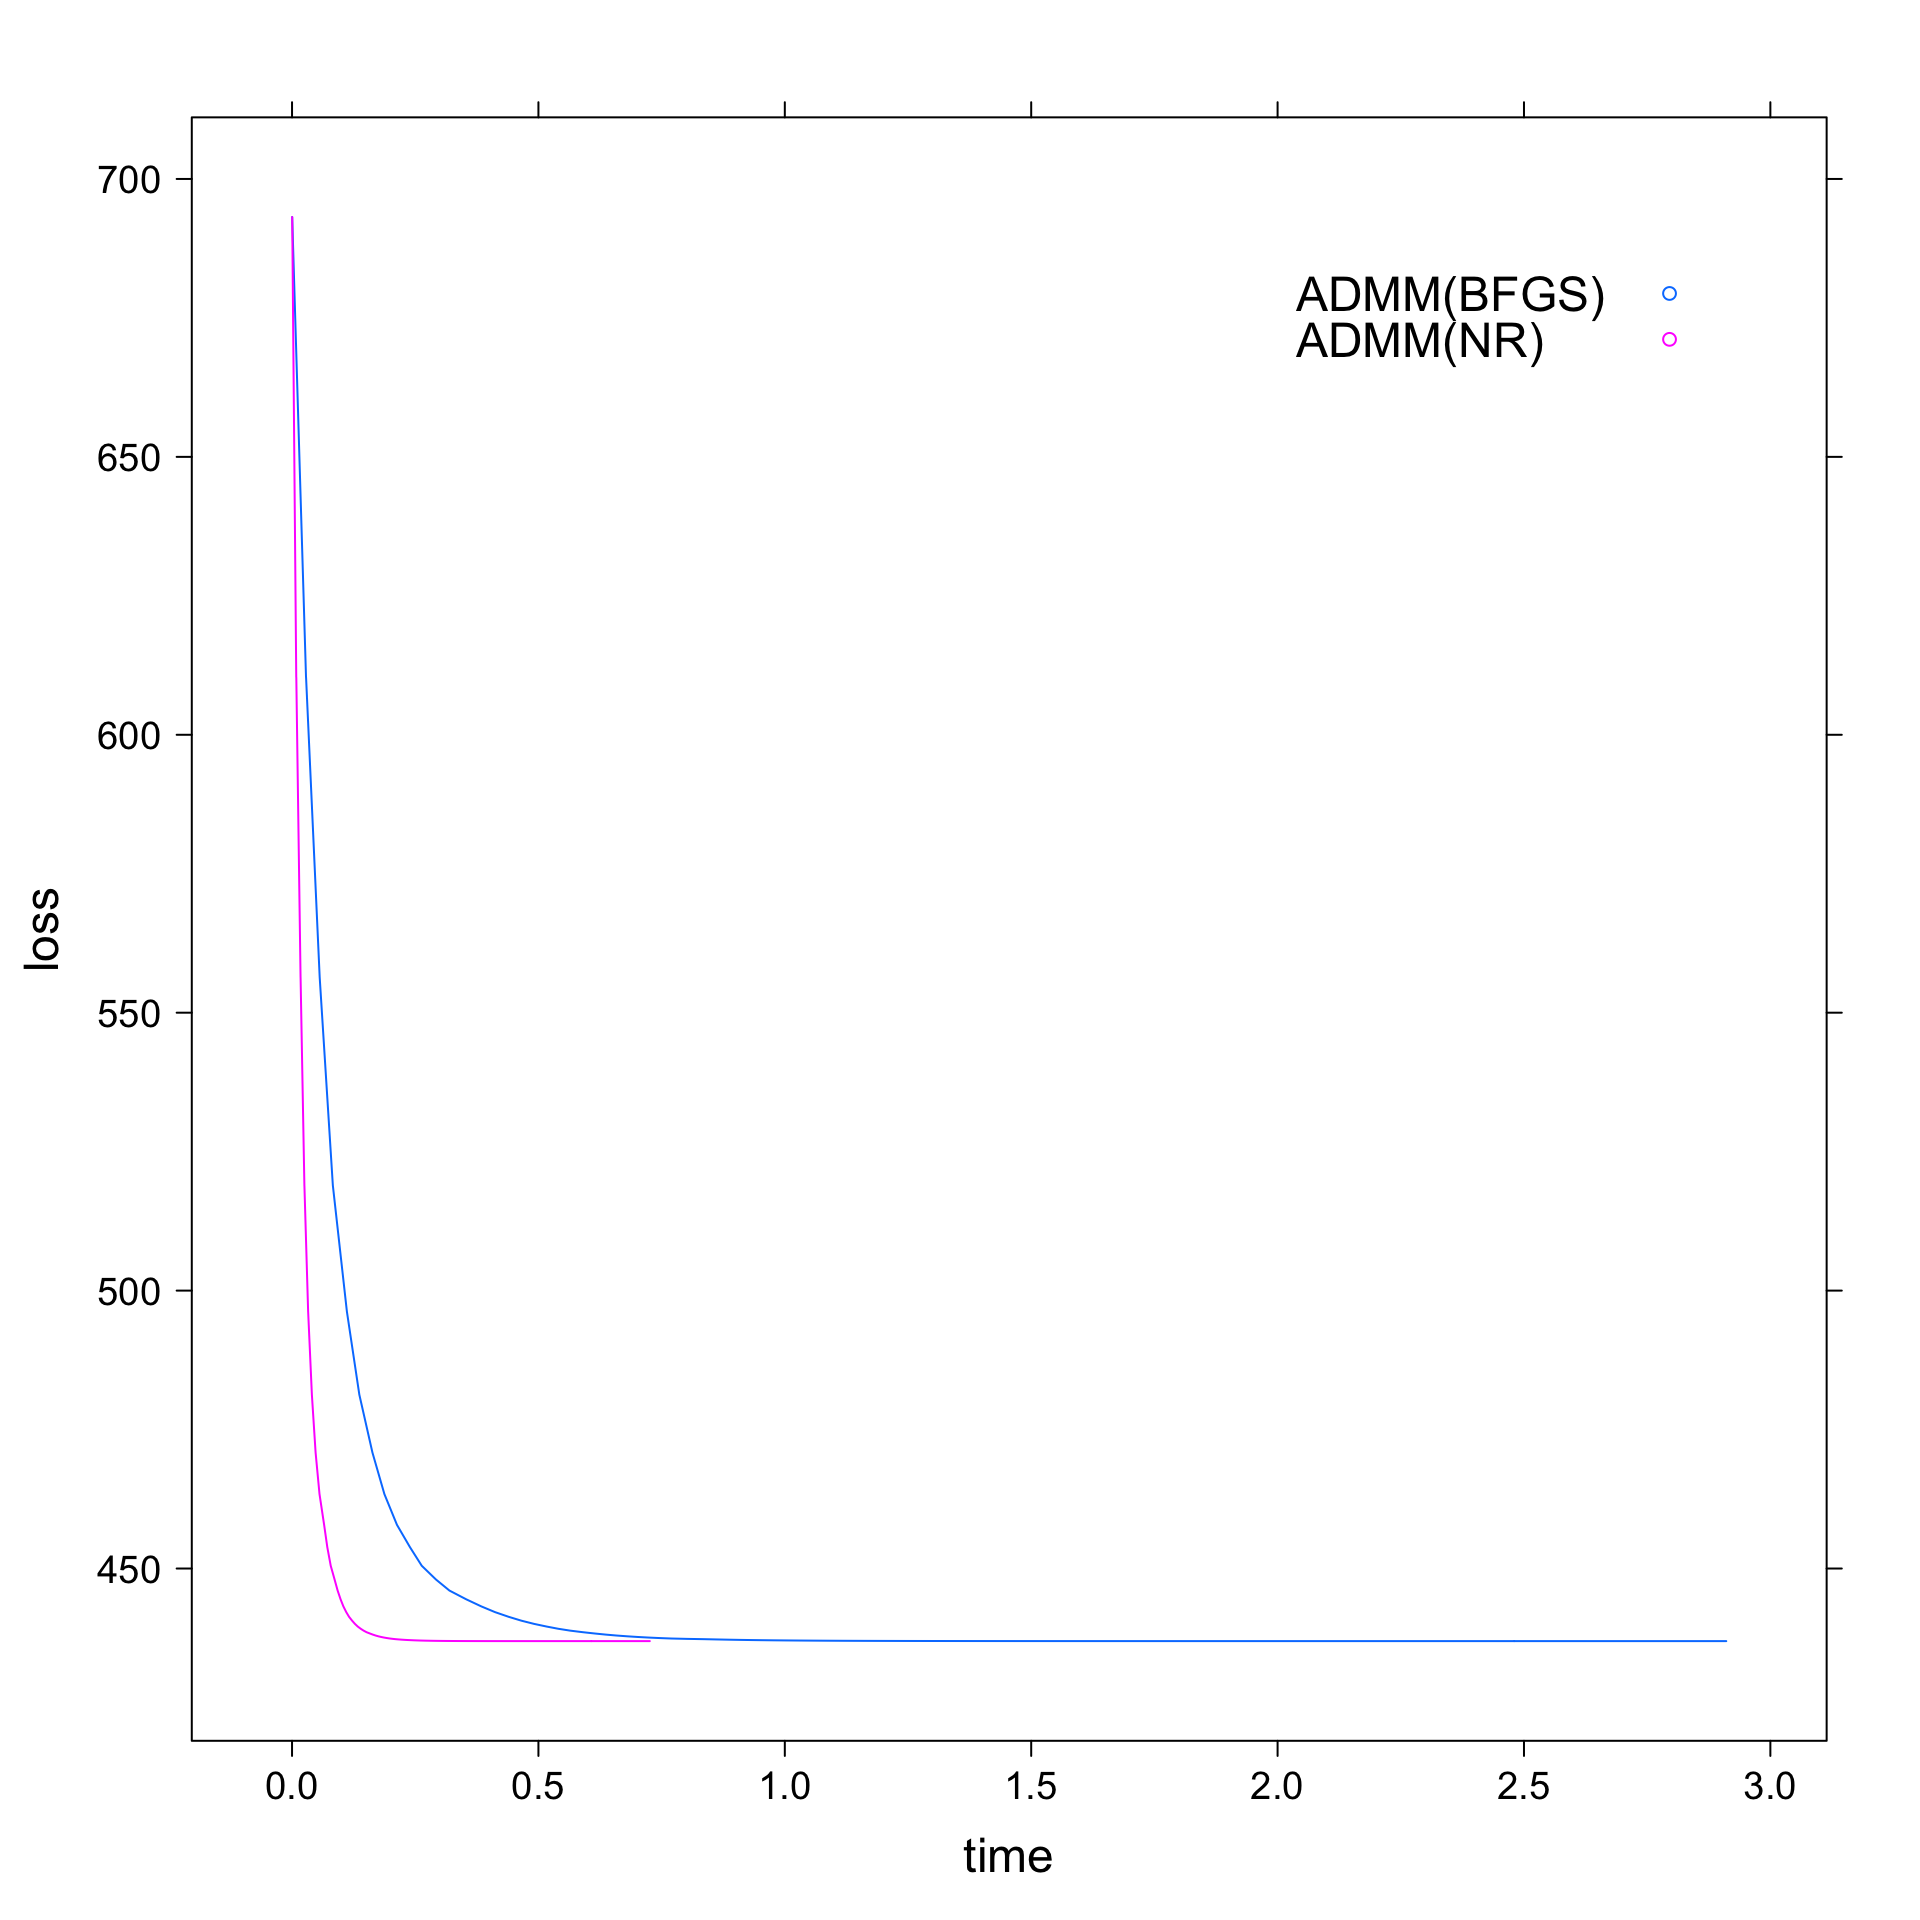
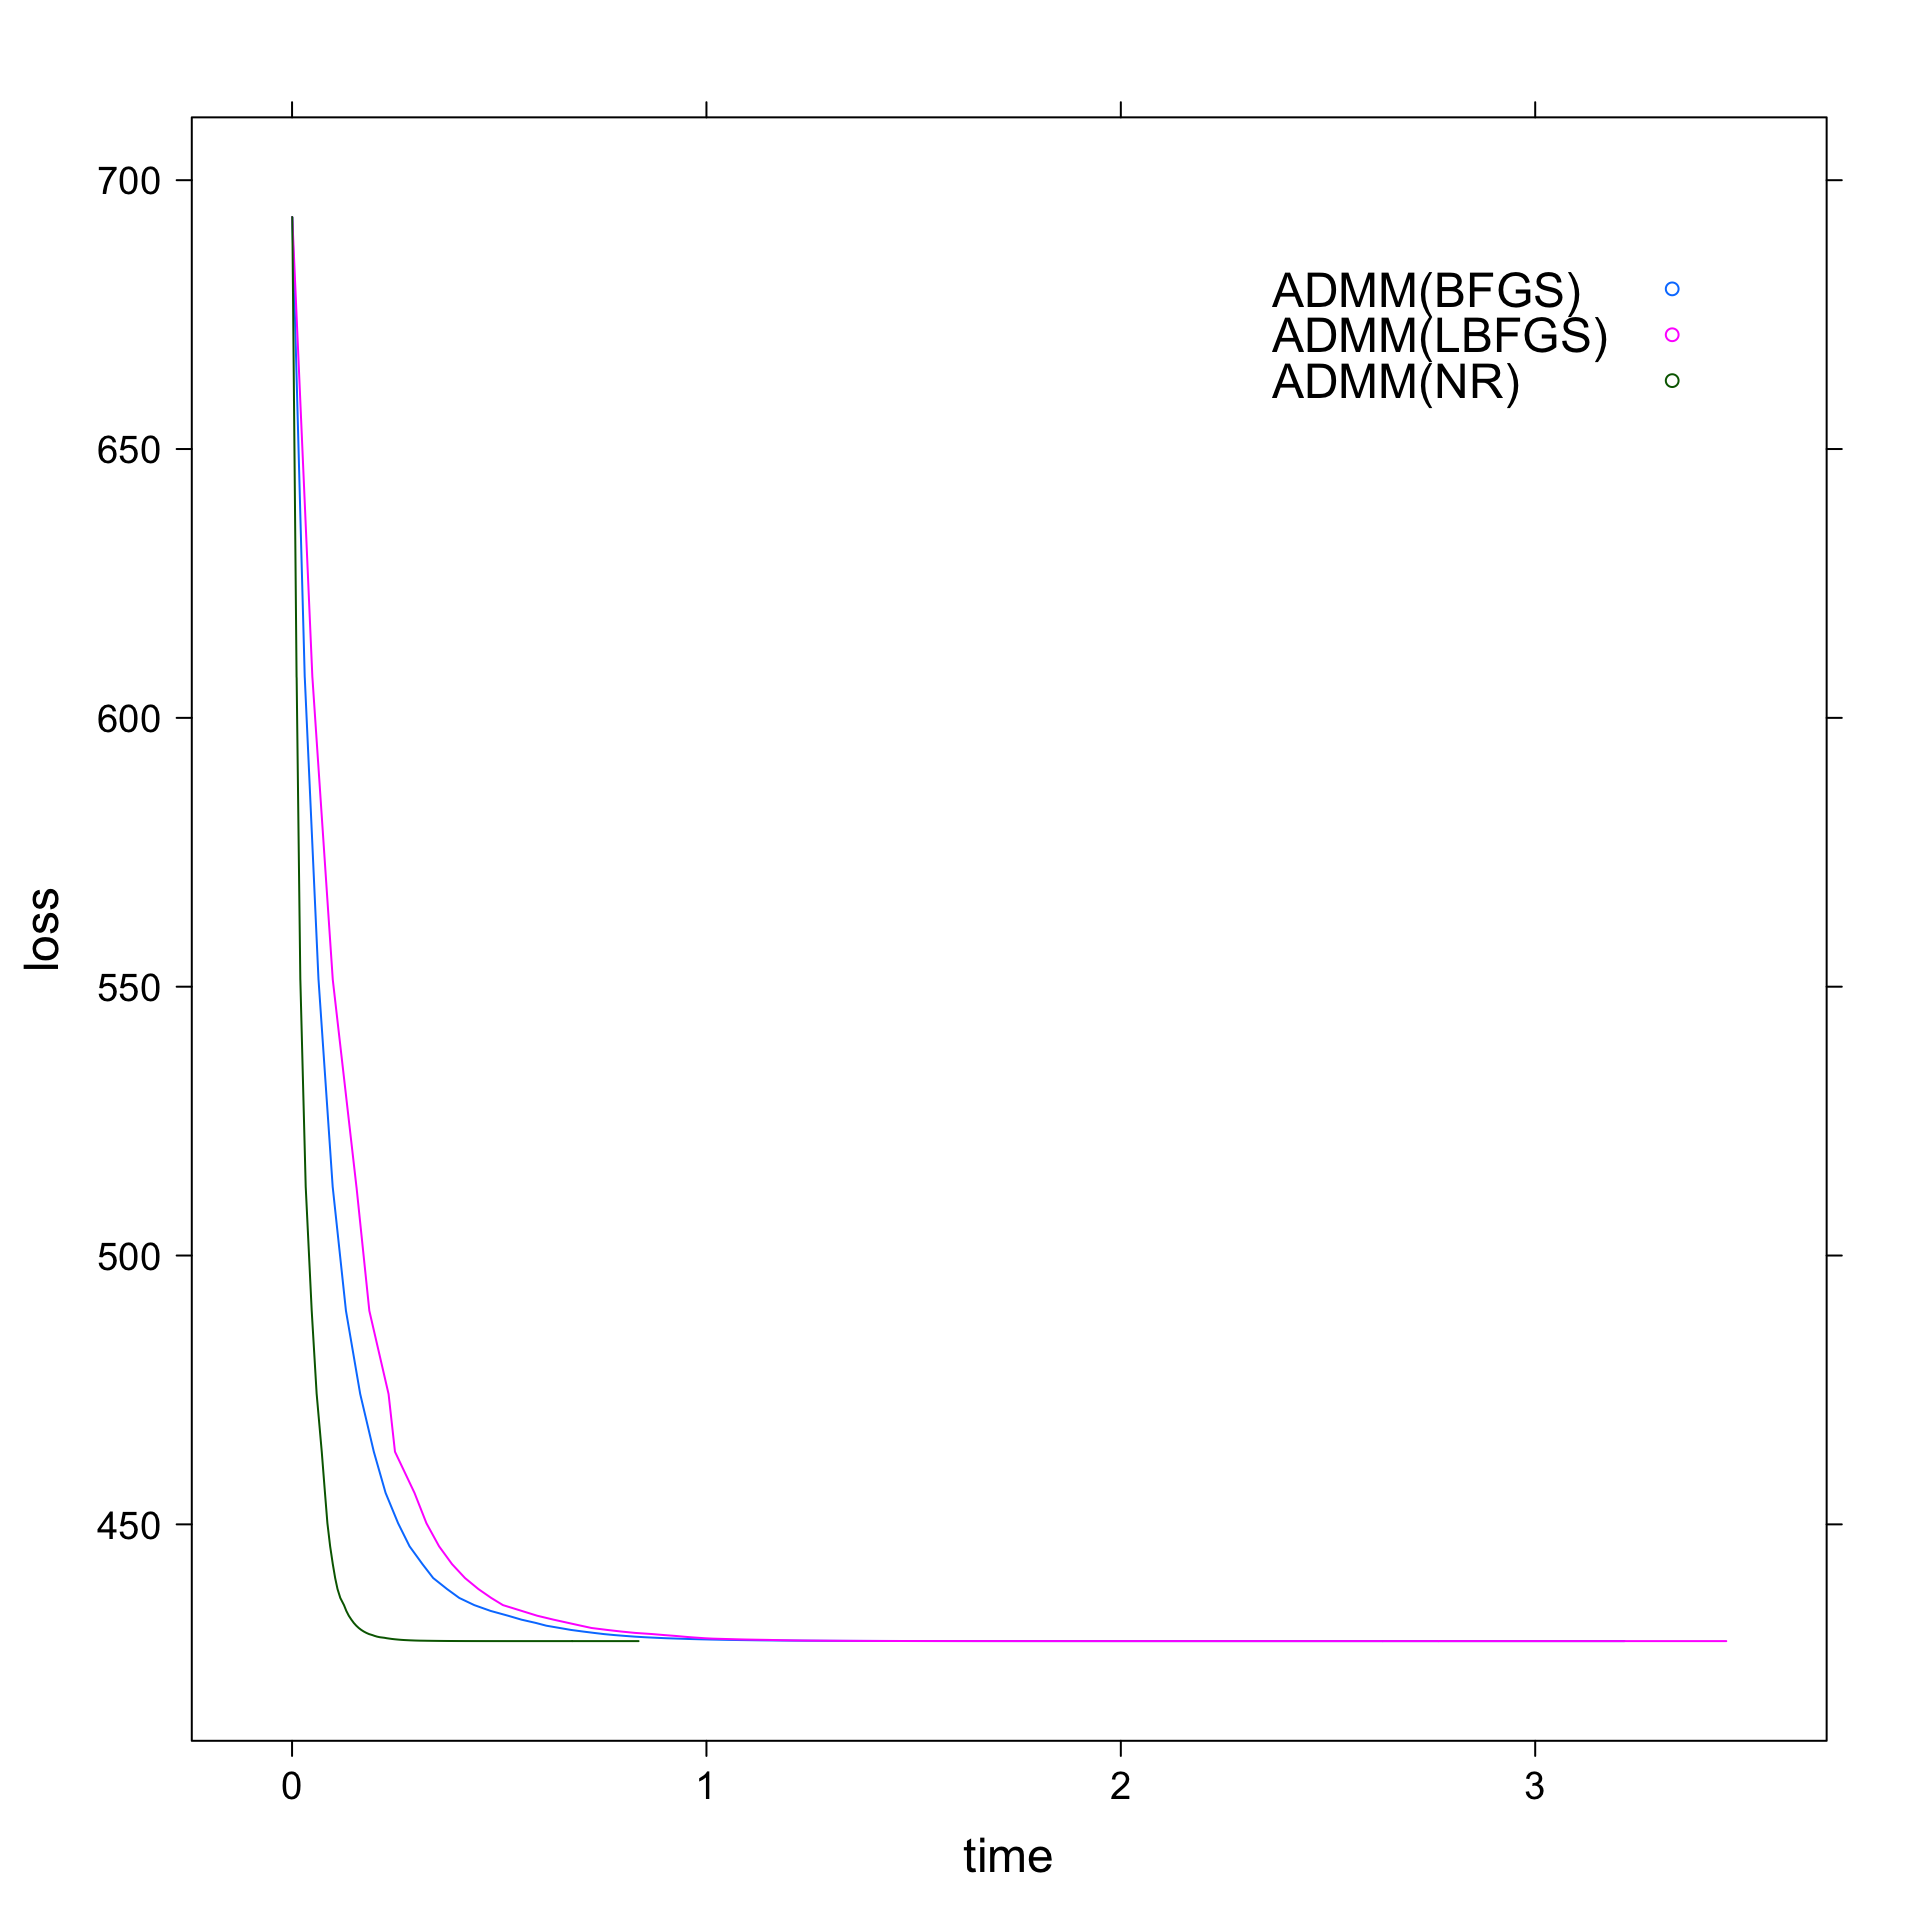
Built site for solvers: 1.0@d2ecbae

diff --git a/articles/compare_opt_algo.html b/articles/compare_opt_algo.html
@@ -87,7 +87,7 @@
 
     
     
-<p>This tutorial shows how to compare perfomance of ADDM solver for different optimization algorithm choices. In this example, we will compare Newton-Raphson method and BFGS method.</p>
+<p>This tutorial shows how to compare perfomance of ADDM solver for different optimization algorithm choices. In this example, we will compare Newton-Raphson method, BFGS method and L-BFGS method.</p>
 <div class="sourceCode" id="cb1"><pre class="downlit">
 <span class="fu"><a href="https://rdrr.io/r/base/library.html">library</a></span>(<span class="kw">solvers</span>)
 <span class="fu"><a href="https://rdrr.io/r/base/library.html">library</a></span>(<span class="kw"><a href="http://lattice.r-forge.r-project.org">lattice</a></span>)
@@ -100,24 +100,27 @@
 <span class="kw">x</span> <span class="op">&lt;-</span> <span class="kw">d</span><span class="op">$</span><span class="kw">x</span>
 <span class="kw">y</span> <span class="op">&lt;-</span> <span class="kw">d</span><span class="op">$</span><span class="kw">y</span>
 </pre></div>
-<p>Now that we have out training data-set, we will use ADMM to obtain the fit twice - once with Newton-Raphson as optimization algorithm and again with BFGS as optimization algorithm. Note that <code>diagnostics=TRUE</code> flag is necessary so that solver records the metrics at each iteration.</p>
+<p>Now that we have out training data-set, we will use ADMM to obtain the fit thrice - once with Newton-Raphson as optimization algorithm, once with BFGS as optimization algorithm and finally once with L-BFGS as optimization algorithm. Note that <code>diagnostics=TRUE</code> flag is necessary so that solver records the metrics at each iteration.</p>
 <div class="sourceCode" id="cb3"><pre class="downlit">
 <span class="co"># Obtaining the fit for the solvers we want to compare</span>
 <span class="kw">admm_nr</span> <span class="op">&lt;-</span> <span class="fu"><a href="../reference/ADMM.html">ADMM</a></span>(<span class="kw">x</span>, <span class="kw">y</span>, family=<span class="st">"binomial"</span>, opt_algo=<span class="st">"nr"</span>, alpha=(<span class="fl">0.01</span>),diagnostics=<span class="fl">TRUE</span>)
 <span class="kw">admm_bfgs</span> <span class="op">&lt;-</span> <span class="fu"><a href="../reference/ADMM.html">ADMM</a></span>(<span class="kw">x</span>, <span class="kw">y</span>, family=<span class="st">"binomial"</span>, opt_algo=<span class="st">"bfgs"</span>, alpha=(<span class="fl">0.01</span>),diagnostics=<span class="fl">TRUE</span>)
+<span class="kw">admm_lbfgs</span> <span class="op">&lt;-</span> <span class="fu"><a href="../reference/ADMM.html">ADMM</a></span>(<span class="kw">x</span>, <span class="kw">y</span>, family=<span class="st">"binomial"</span>, opt_algo=<span class="st">"lbfgs"</span>, alpha=(<span class="fl">0.01</span>),diagnostics=<span class="fl">TRUE</span>)
 </pre></div>
 <p>To compare total execution time, we can use <code>total_time</code> attribute of the fit.</p>
 <div class="sourceCode" id="cb4"><pre class="downlit">
 <span class="co"># Comparing total execution time</span>
 <span class="fu"><a href="https://rdrr.io/r/base/print.html">print</a></span>(<span class="kw">admm_nr</span><span class="op">$</span><span class="kw">total_time</span>)
-<span class="co">#&gt; [1] 0.7330373</span>
+<span class="co">#&gt; [1] 0.8445297</span>
 <span class="fu"><a href="https://rdrr.io/r/base/print.html">print</a></span>(<span class="kw">admm_bfgs</span><span class="op">$</span><span class="kw">total_time</span>)
-<span class="co">#&gt; [1] 2.936133</span>
+<span class="co">#&gt; [1] 3.24005</span>
+<span class="fu"><a href="https://rdrr.io/r/base/print.html">print</a></span>(<span class="kw">admm_lbfgs</span><span class="op">$</span><span class="kw">total_time</span>)
+<span class="co">#&gt; [1] 3.49391</span>
 </pre></div>
 <p>Now, these fits cannot be directly used to plot as they contain a lot of parameter so we’ll call a utility function that merges the relevant parameter and returns a dataframe.</p>
 <div class="sourceCode" id="cb5"><pre class="downlit">
 <span class="co"># Merging the metrics into one dataframe</span>
-<span class="kw">f</span> <span class="op">&lt;-</span> <span class="fu"><a href="../reference/mergeFits.html">mergeFits</a></span>(<span class="kw">admm_nr</span>, <span class="kw">admm_bfgs</span>)
+<span class="kw">f</span> <span class="op">&lt;-</span> <span class="fu"><a href="../reference/mergeFits.html">mergeFits</a></span>(<span class="fu"><a href="https://rdrr.io/r/base/list.html">list</a></span>(<span class="kw">admm_nr</span>, <span class="kw">admm_bfgs</span>, <span class="kw">admm_lbfgs</span>))
 </pre></div>
 <p>Finally, now we can generate the loss vs time plot.</p>
 <div class="sourceCode" id="cb6"><pre class="downlit">

diff --git a/articles/compare-fista-admm.html b/articles/compare-fista-admm.html
@@ -111,14 +111,14 @@
 <div class="sourceCode" id="cb4"><pre class="downlit">
 <span class="co"># Comparing total execution time</span>
 <span class="fu"><a href="https://rdrr.io/r/base/print.html">print</a></span>(<span class="kw">fista_fit</span><span class="op">$</span><span class="kw">total_time</span>)
-<span class="co">#&gt; [1] 1.400207</span>
+<span class="co">#&gt; [1] 1.712385</span>
 <span class="fu"><a href="https://rdrr.io/r/base/print.html">print</a></span>(<span class="kw">admm_fit</span><span class="op">$</span><span class="kw">total_time</span>)
-<span class="co">#&gt; [1] 3.340374</span>
+<span class="co">#&gt; [1] 3.776994</span>
 </pre></div>
 <p>Now, these fits cannot be directly used to plot as they contain a lot of parameter so we’ll call a utility function that merges the relevant parameter and returns a dataframe.</p>
 <div class="sourceCode" id="cb5"><pre class="downlit">
 <span class="co"># Merging the metrics into one dataframe</span>
-<span class="kw">f</span> <span class="op">&lt;-</span> <span class="fu"><a href="../reference/mergeFits.html">mergeFits</a></span>(<span class="kw">fista_fit</span>, <span class="kw">admm_fit</span>)
+<span class="kw">f</span> <span class="op">&lt;-</span> <span class="fu"><a href="../reference/mergeFits.html">mergeFits</a></span>(<span class="fu"><a href="https://rdrr.io/r/base/list.html">list</a></span>(<span class="kw">fista_fit</span>, <span class="kw">admm_fit</span>))
 </pre></div>
 <p>Finally, now we can generate the loss vs time plot.</p>
 <div class="sourceCode" id="cb6"><pre class="downlit">

diff --git a/reference/mergeFits.html b/reference/mergeFits.html
@@ -127,20 +127,14 @@
     <p>FISTA</p>
     </div>
 
-    <pre class="usage"><span class='fu'>mergeFits</span>(<span class='kw'>fit1</span>, <span class='kw'>fit2</span>)</pre>
+    <pre class="usage"><span class='fu'>mergeFits</span>(<span class='kw'>fits</span>)</pre>
 
     <h2 class="hasAnchor" id="arguments"><a class="anchor" href="#arguments"></a>Arguments</h2>
     <table class="ref-arguments">
     <colgroup><col class="name" /><col class="desc" /></colgroup>
     <tr>
-      <th>fit1</th>
-      <td><p>Output of any of the algorithms (FISTA, ADMM etc)
-that you want to compare</p></td>
-    </tr>
-    <tr>
-      <th>fit2</th>
-      <td><p>Output of any of the algorithms (FISTA, ADMM etc)
-that you want to compare with.</p></td>
+      <th>fits</th>
+      <td><p>List of outputs of any of the algorithms (FISTA, ADMM etc)</p></td>
     </tr>
     </table>
 
